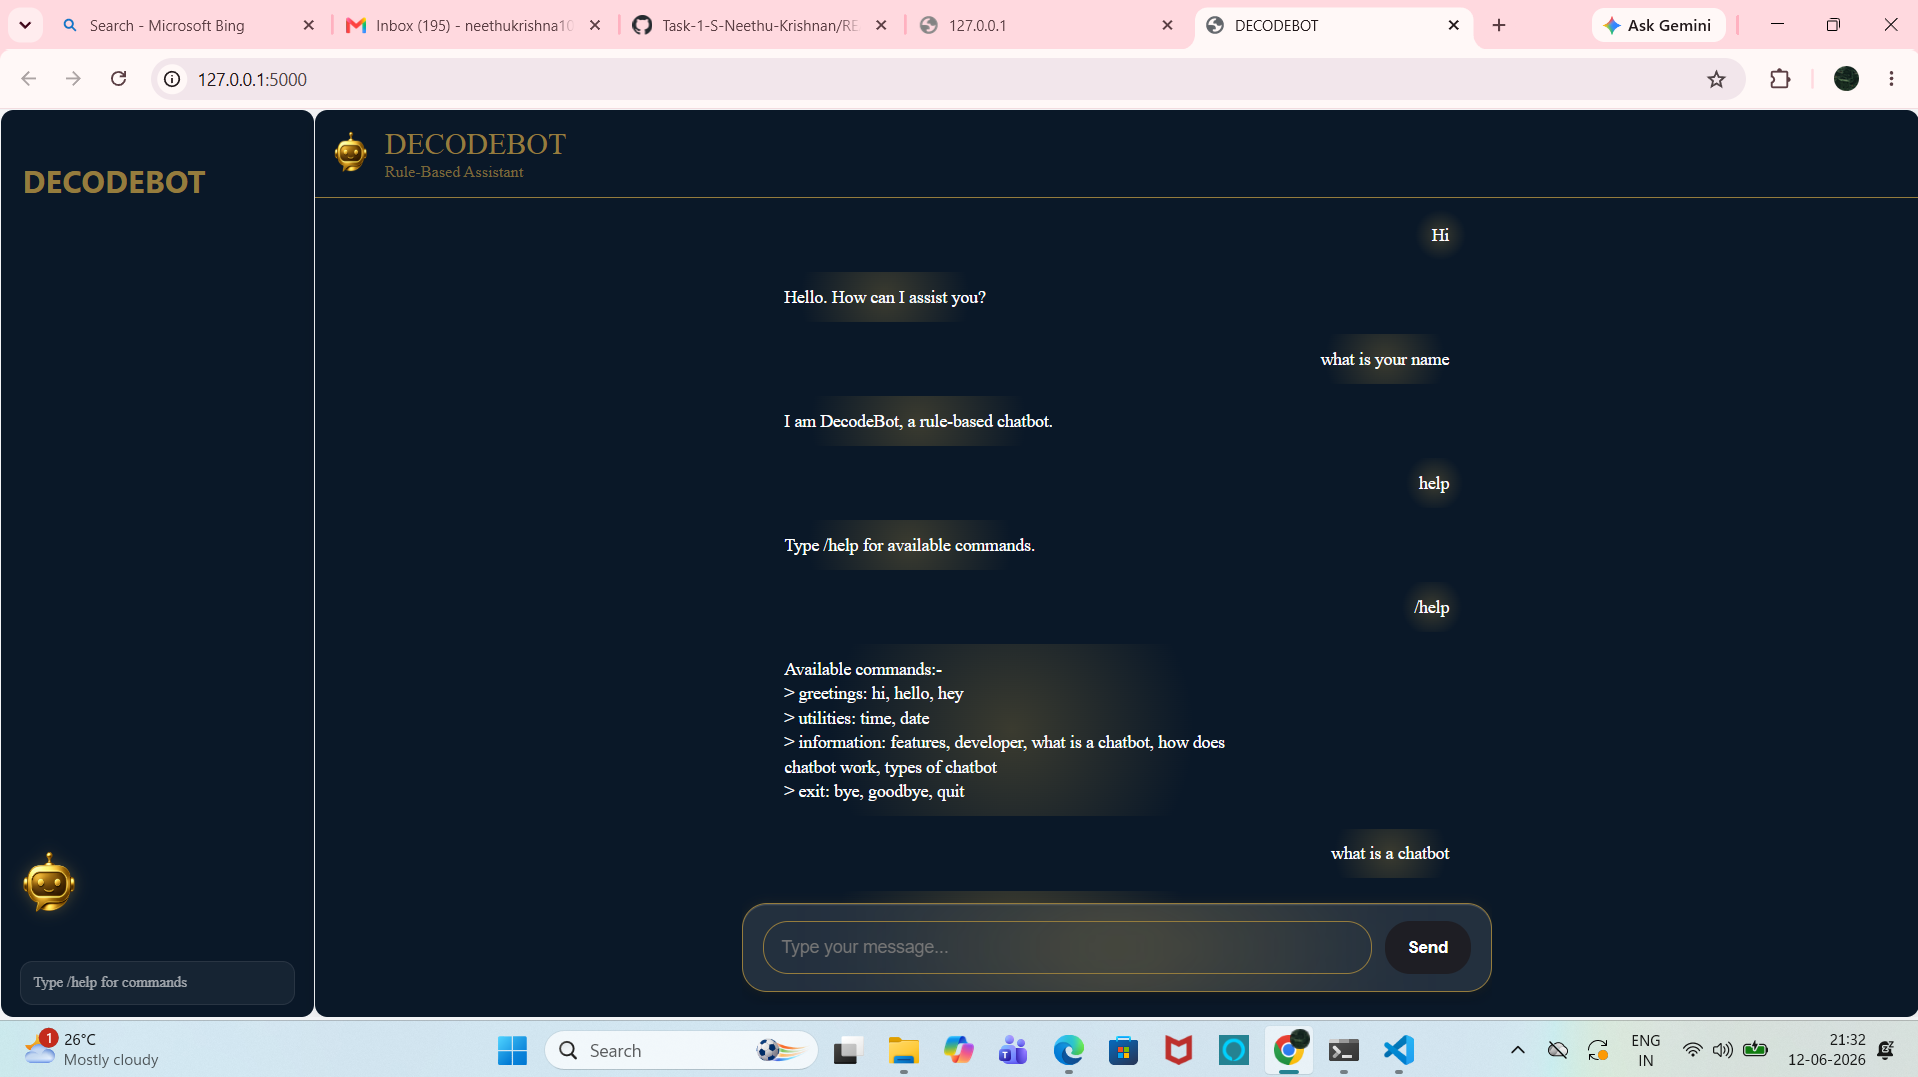
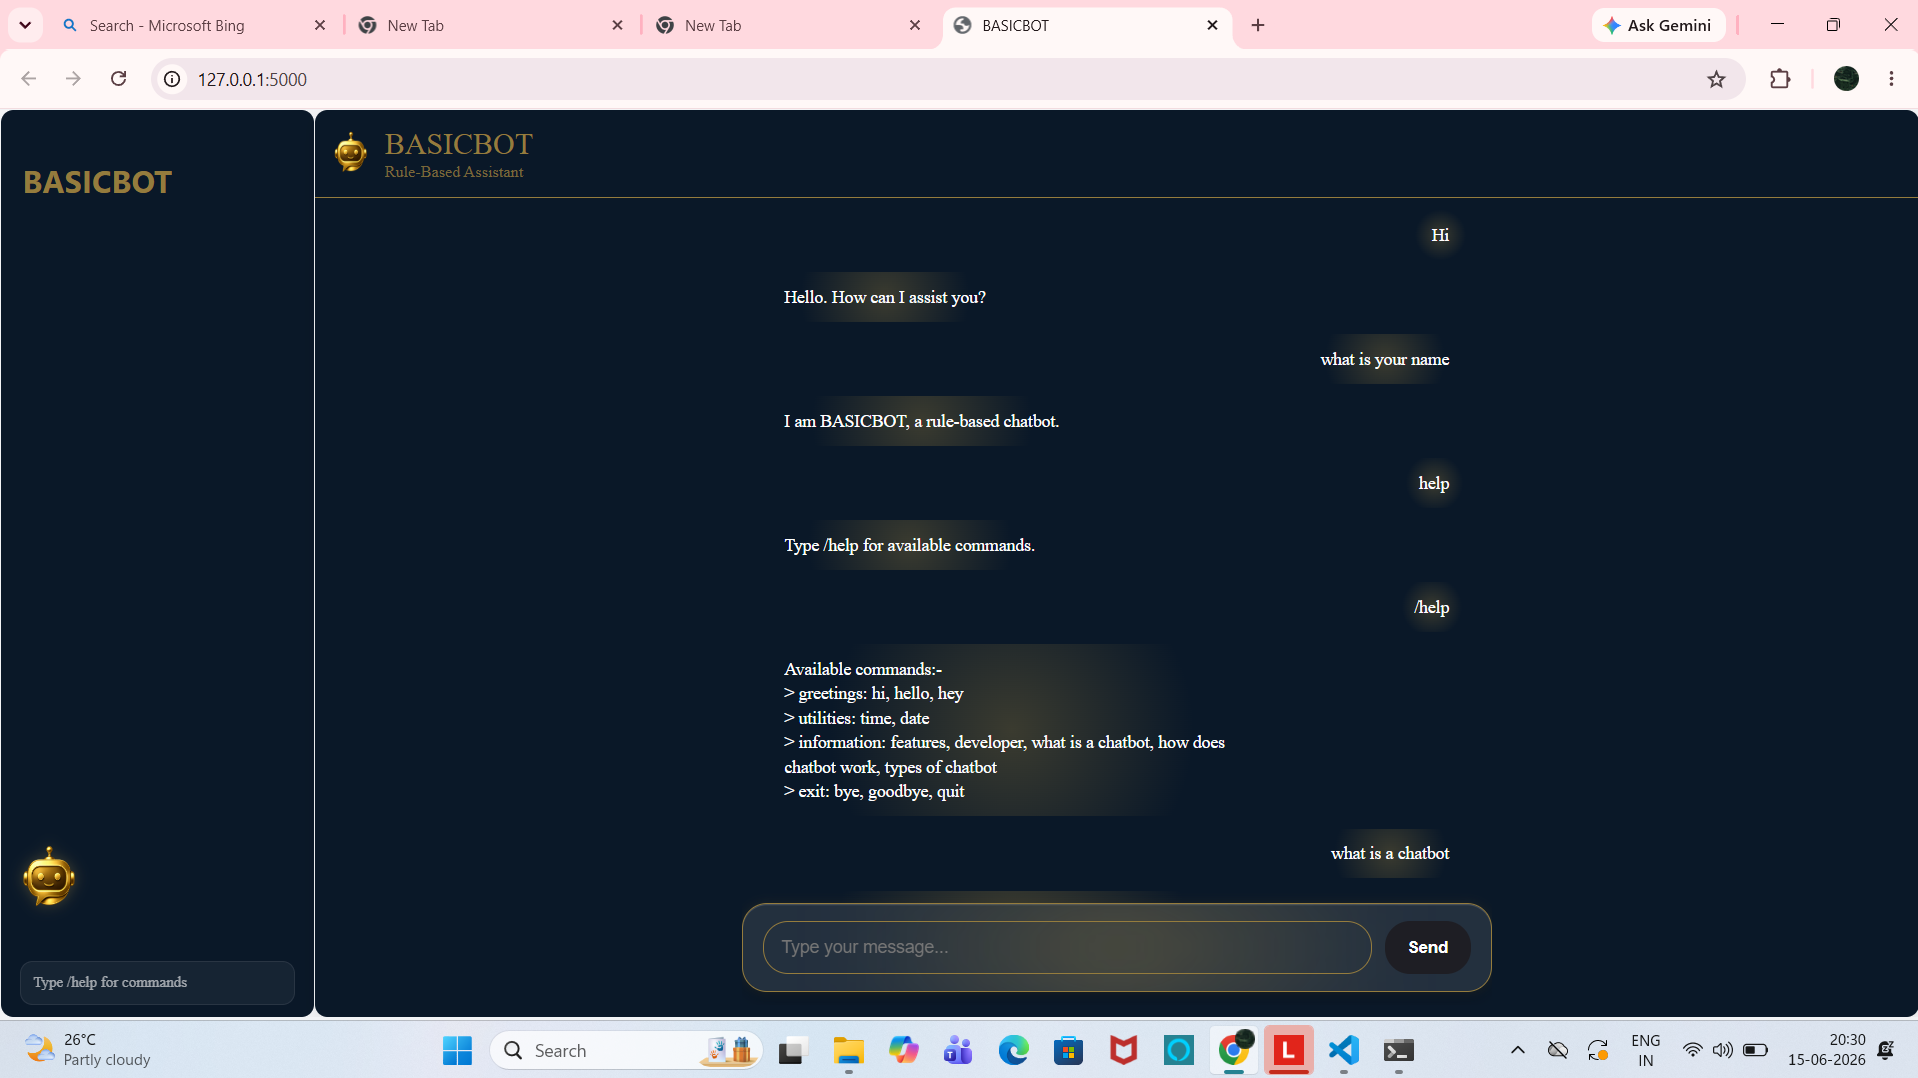
Rebranded project to BASICBOT and updated README and structure

diff --git a/templates/index.html b/templates/index.html
@@ -2,7 +2,7 @@
 <html lang="en">
 
 <head>
-    <title>DECODEBOT</title>
+    <title>BASICBOT</title>
     <link rel="stylesheet" href="{{ url_for('static', filename='style.css') }}">
 
 
@@ -12,7 +12,7 @@
     <div class="main-container">
         <div class="left-panel">
             <div class="logo-name">
-                DECODEBOT
+                BASICBOT
             </div>
             <img src="{{ url_for('static', filename='bot.png') }}" alt="Bot Logo">
             <div class="help-box">
@@ -26,7 +26,7 @@
                     <img src="{{ url_for('static', filename='bot.png') }}" alt="Bot Logo">
 
                     <div>
-                        <div class="header-title">DECODEBOT</div>
+                        <div class="header-title">BASICBOT</div>
                         <div class="header-subtitle">Rule-Based Assistant</div>
                     </div>
                 </div>

diff --git a/README.md b/README.md
@@ -1,4 +1,4 @@
-# Rule-Based Chatbot
+# BASICBOT - Rule-Based Chatbot System
 
 ## Project Description
 This project is a simple Rule-Based Chatbot developed using Python, HTML, CSS, and JavaScript. The chatbot responds to user queries based on predefined rules and patterns.
@@ -16,7 +16,7 @@ This project is a simple Rule-Based Chatbot developed using Python, HTML, CSS, a
 - JavaScript
 
 ## Project Structure
-- chatbot.py - Backend chatbot logic
+- app.py - Flask backend chatbot logic
 - templates/ - HTML files
 - static/ - CSS, JavaScript, and images
 
@@ -36,7 +36,7 @@ Below are some sample outputs of the chatbot system:
 ## How to Run
 1. Install Python on your system.
 2. Open the project folder.
-3. Run chatbot.py.
+3. Run app.py.
 4. Open the application in your browser.
 
 ## Author